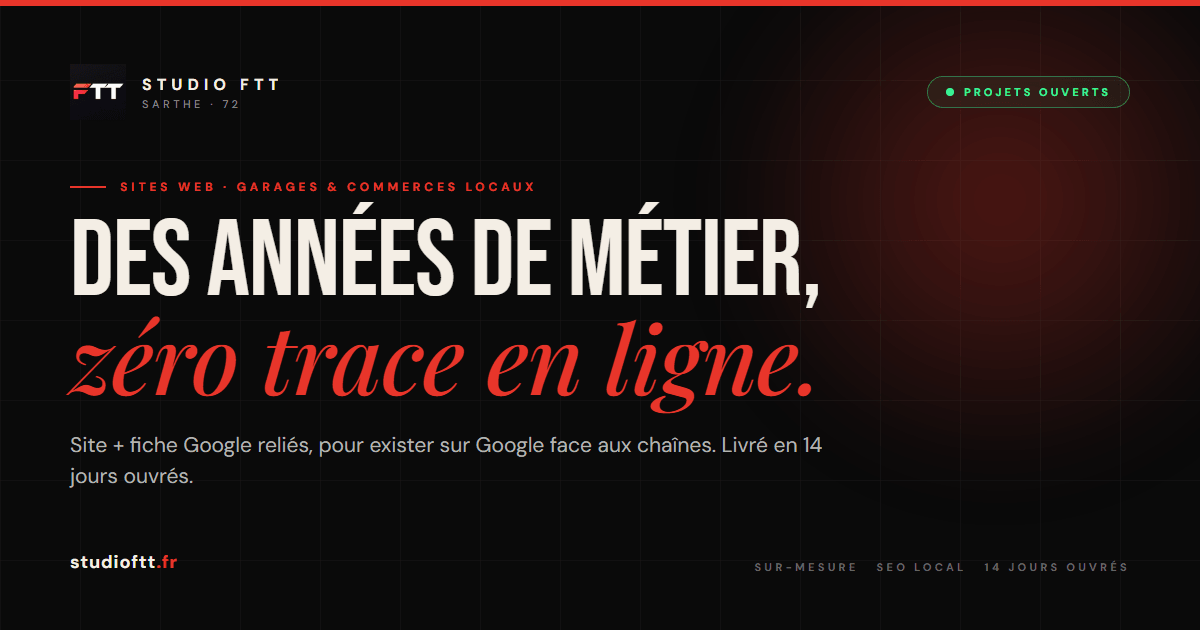
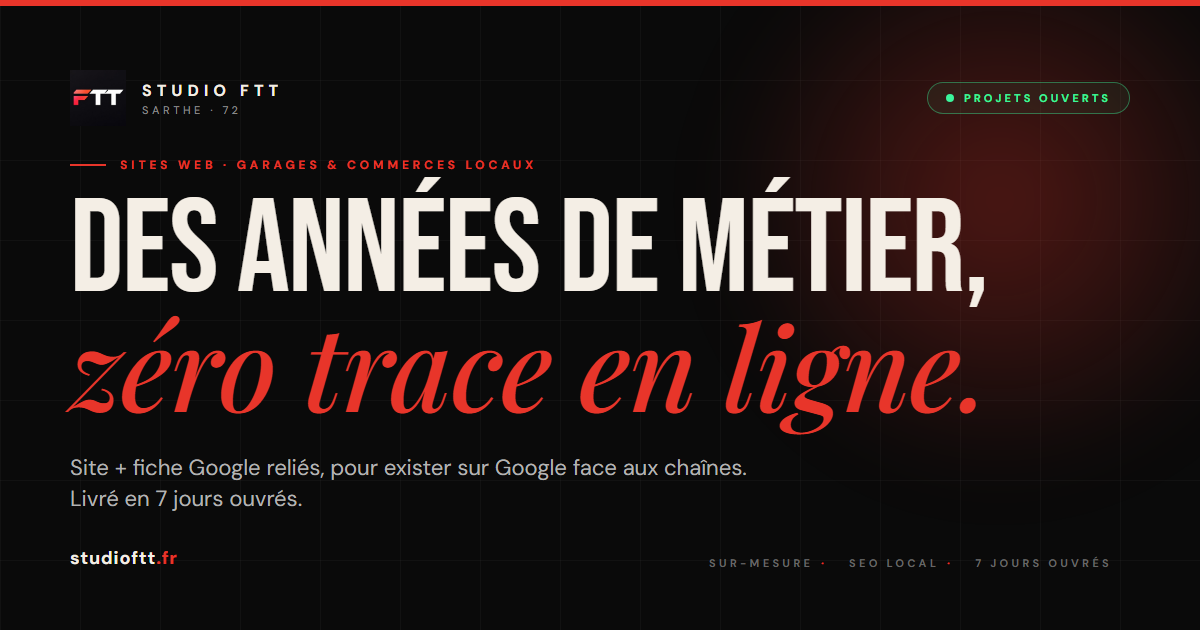
feat(offre): délai de livraison 7 jours ouvrés (au lieu de 14) + conditions CGV
Le délai démarre à réception de l'acompte 30 % et de tous les contenus,
est suspendu pendant les attentes de réponse du client, et exclut la
vérification Google Business. Images OG régénérées (et « Next.js » retiré).

diff --git a/app/tarifs/page.tsx b/app/tarifs/page.tsx
@@ -14,7 +14,7 @@ const COMPARATIF = {
   rows: [
     { label: "Prix", cells: ["17 à 30 €/mois, à vie", "800 à 1 500 €", "500 à 1 000 € one-shot", "1 800 à 2 500 €+"] },
     { label: "Qui fait le travail", cells: ["Vous, seul", "Le freelance", "Moi, en direct", "Une équipe + un chef de projet"] },
-    { label: "Délai", cells: ["Selon votre temps libre", "Variable", "14 jours ouvrés", "6 à 12 semaines"] },
+    { label: "Délai", cells: ["Selon votre temps libre", "Variable", "7 jours ouvrés", "6 à 12 semaines"] },
     { label: "Design", cells: ["Template à adapter", "Selon le profil", "Sur-mesure pour votre métier", "Sur-mesure"] },
     { label: "SEO", cells: ["À faire vous-même", "Souvent en option", "Inclus dès 500 €", "Inclus"] },
     { label: "Abonnement", cells: ["Obligatoire, sinon le site disparaît", "Selon le prestataire", "Aucun obligatoire", "Maintenance en supplément"] },
@@ -43,8 +43,8 @@ const TARIFS_FAQ = [
     a: "Un devis écrit, valable 30 jours. Vous versez un acompte de 30 % à la signature pour lancer les travaux, et le solde se règle avant la mise en ligne. Tout est posé par écrit avant de commencer.",
   },
   {
-    q: "Le délai de 14 jours ouvrés démarre quand ?",
-    a: "À la réception de votre acompte et de vos contenus : textes, photos, logo. C'est le temps qu'il me faut pour concevoir la maquette, la faire valider et mettre le site en ligne. S'il vous manque des éléments, je démarre avec ce que vous avez.",
+    q: "Le délai de 7 jours ouvrés démarre quand ?",
+    a: "Quand j'ai reçu votre acompte de 30 % et tous vos contenus : textes, photos, logo, infos. Les jours où j'attends votre validation ou une réponse de votre part ne comptent pas, et la vérification de la fiche Google (faite par Google) non plus. S'il vous manque des éléments, on en parle et on démarre avec ce que vous avez.",
   },
 ];
 
@@ -120,7 +120,7 @@ export default function Tarifs() {
               }}
             >
               <span style={{ color: "var(--ftt-red)", fontSize: 16 }}>⚡</span>
-              Livraison en 14 jours ouvrés
+              Livraison en 7 jours ouvrés
             </div>
           </div>
         </Reveal>

diff --git a/app/cgv/page.tsx b/app/cgv/page.tsx
@@ -155,16 +155,26 @@ export default function CGV() {
               Article 5 — Délais &amp; livraison
             </h2>
             <p>
-              Le délai standard de création d&apos;un site vitrine est de{" "}
-              <strong className="text-white">14 jours ouvrés</strong> à compter de
-              la réception de l&apos;acompte ET de l&apos;ensemble des contenus
-              fournis par le Client (textes, photos, logo, accès Google
-              Business le cas échéant).
+              Le délai standard de création d&apos;un site est de{" "}
+              <strong className="text-white">7 jours ouvrés</strong>. Il court
+              à compter de la réception de l&apos;acompte de 30&nbsp;% ET de
+              l&apos;ensemble des contenus nécessaires fournis par le Client
+              (textes, photos, logo, informations de l&apos;entreprise, accès
+              Google Business le cas échéant). Tant que ces deux conditions ne
+              sont pas réunies, le délai ne commence pas.
             </p>
             <p className="mt-3">
-              En cas de retard dans la fourniture des contenus par le Client, le
-              délai de livraison est suspendu d&apos;autant. Tout délai
-              spécifique négocié figure sur le devis.
+              Le délai est suspendu pendant les temps de réponse et de
+              validation du Client (validation de la maquette, réponses aux
+              questions du Prestataire, envoi de contenus complémentaires)&nbsp;:
+              chaque jour ouvré d&apos;attente d&apos;une réponse du Client
+              s&apos;ajoute au délai de livraison.
+            </p>
+            <p className="mt-3">
+              La vérification de la fiche Google Business Profile est réalisée
+              par Google (vidéo, courrier ou appel) et ne dépend pas du
+              Prestataire&nbsp;: elle n&apos;est pas comprise dans ce délai.
+              Tout délai spécifique négocié figure sur le devis.
             </p>
             <p className="mt-3">
               La livraison correspond à la mise en ligne du site sur son nom de

diff --git a/app/site-internet-kine/layout.tsx b/app/site-internet-kine/layout.tsx
@@ -5,7 +5,7 @@ import { breadcrumbSchema, serviceSchema } from "@/lib/schema";
 
 const TITLE = "Site internet kinésithérapeute : être choisi";
 const DESCRIPTION =
-  "Sur Doctolib, vous êtes une ligne parmi cinquante. Un site de kiné qui vous rend visible et respecte votre déontologie. 750 € tout compris, 14 jours ouvrés.";
+  "Sur Doctolib, vous êtes une ligne parmi cinquante. Un site de kiné qui vous rend visible et respecte votre déontologie. 750 € tout compris, 7 jours ouvrés.";
 
 const URL = `${siteConfig.url}/site-internet-kine`;
 
@@ -58,7 +58,7 @@ export default function SiteInternetKineLayout({
             name: "Création de site internet pour kinésithérapeute, ostéopathe et sophrologue",
             price: "750",
             description:
-              "Site sur-mesure pour cabinet de kinésithérapie : jusqu'à 3 pages, SEO local, fiche Google Business Profile configurée, conforme aux règles de communication de la profession. Livré en 14 jours ouvrés.",
+              "Site sur-mesure pour cabinet de kinésithérapie : jusqu'à 3 pages, SEO local, fiche Google Business Profile configurée, conforme aux règles de communication de la profession. Livré en 7 jours ouvrés.",
             features: [
               "Jusqu'à 3 pages",
               "Design adapté au secteur santé",

diff --git a/app/site-internet-artisan/layout.tsx b/app/site-internet-artisan/layout.tsx
@@ -5,7 +5,7 @@ import { breadcrumbSchema, serviceSchema } from "@/lib/schema";
 
 const TITLE = "Site internet artisan : être trouvé le premier";
 const DESCRIPTION =
-  "Quand un client tape « plombier + votre ville » à 22h, il appelle celui qu'il trouve. Site + fiche Google reliés, 750 € tout compris, livré en 14 jours ouvrés.";
+  "Quand un client tape « plombier + votre ville » à 22h, il appelle celui qu'il trouve. Site + fiche Google reliés, 750 € tout compris, livré en 7 jours ouvrés.";
 
 const URL = `${siteConfig.url}/site-internet-artisan`;
 
@@ -58,7 +58,7 @@ export default function SiteInternetArtisanLayout({
             name: "Création de site internet pour artisan du bâtiment",
             price: "750",
             description:
-              "Site sur-mesure pour artisan (plombier, électricien, chauffagiste, maçon) : jusqu'à 3 pages, SEO local sur votre ville et vos services, fiche Google Business Profile configurée. Livré en 14 jours ouvrés.",
+              "Site sur-mesure pour artisan (plombier, électricien, chauffagiste, maçon) : jusqu'à 3 pages, SEO local sur votre ville et vos services, fiche Google Business Profile configurée. Livré en 7 jours ouvrés.",
             features: [
               "Jusqu'à 3 pages",
               "Design adapté à votre métier",

diff --git a/app/site-internet-commerce/layout.tsx b/app/site-internet-commerce/layout.tsx
@@ -5,7 +5,7 @@ import { breadcrumbSchema, serviceSchema } from "@/lib/schema";
 
 const TITLE = "Site internet garage & commerce local";
 const DESCRIPTION =
-  "Les chaînes ont des sites clinquants, vous avez le métier. Site + fiche Google reliés pour garage ou commerce : 750 € tout compris, livré en 14 jours ouvrés.";
+  "Les chaînes ont des sites clinquants, vous avez le métier. Site + fiche Google reliés pour garage ou commerce : 750 € tout compris, livré en 7 jours ouvrés.";
 
 const URL = `${siteConfig.url}/site-internet-commerce`;
 
@@ -58,7 +58,7 @@ export default function SiteInternetCommerceLayout({
             name: "Création de site internet pour commerce et service de proximité",
             price: "750",
             description:
-              "Site sur-mesure pour commerce ou service local (garage, institut, auto-école, boutique) : jusqu'à 3 pages, SEO local, fiche Google Business Profile configurée et reliée au site. Livré en 14 jours ouvrés.",
+              "Site sur-mesure pour commerce ou service local (garage, institut, auto-école, boutique) : jusqu'à 3 pages, SEO local, fiche Google Business Profile configurée et reliée au site. Livré en 7 jours ouvrés.",
             features: [
               "Jusqu'à 3 pages",
               "Design adapté à votre activité",

diff --git a/app/site-internet-kine/page.tsx b/app/site-internet-kine/page.tsx
@@ -84,7 +84,7 @@ const KINE_FAQ = [
   },
   {
     q: "Je n'ai pas le temps de m'en occuper.",
-    a: "C'est prévu. Un appel de 15 minutes pour comprendre votre cabinet, vous m'envoyez vos contenus (photos, parcours, spécialités), et je m'occupe du reste : textes, design, mise en ligne, fiche Google. Livré en 14 jours ouvrés après réception de l'acompte et de vos contenus.",
+    a: "C'est prévu. Un appel de 15 minutes pour comprendre votre cabinet, vous m'envoyez vos contenus (photos, parcours, spécialités), et je m'occupe du reste : textes, design, mise en ligne, fiche Google. Livré en 7 jours ouvrés après réception de l'acompte et de vos contenus, hors temps de validation de votre côté.",
   },
 ];
 
@@ -542,7 +542,7 @@ export default function SiteInternetKine() {
                 "SEO local : votre ville + vos spécialités",
                 "Fiche Google Business Profile configurée",
                 "Lien de prise de rendez-vous intégré",
-                "Livré en 14 jours ouvrés",
+                "Livré en 7 jours ouvrés",
                 "1 modification gratuite incluse",
               ].map((item) => (
                 <div key={item} style={{ display: "flex", alignItems: "center", gap: 10, fontSize: 15, color: "var(--ftt-text-mid)" }}>

diff --git a/app/site-internet-consultant/layout.tsx b/app/site-internet-consultant/layout.tsx
@@ -5,7 +5,7 @@ import { breadcrumbSchema, serviceSchema } from "@/lib/schema";
 
 const TITLE = "Site internet consultant : au niveau de votre TJM";
 const DESCRIPTION =
-  "Crédible en réunion, invisible en ligne ? Un site de consultant au niveau de votre TJM, sur-mesure dès 1 000 €, livré en 14 jours ouvrés.";
+  "Crédible en réunion, invisible en ligne ? Un site de consultant au niveau de votre TJM, sur-mesure dès 1 000 €, livré en 7 jours ouvrés.";
 
 const URL = `${siteConfig.url}/site-internet-consultant`;
 
@@ -58,7 +58,7 @@ export default function SiteInternetConsultantLayout({
             name: "Création de site internet pour consultant, formateur et coach",
             price: "1000",
             description:
-              "Site sur-mesure pour consultant, formateur ou coach : positionnement clair, pages offre, parcours et références, prise de rendez-vous intégrée. À partir de 1 000 €, livré en 14 jours ouvrés.",
+              "Site sur-mesure pour consultant, formateur ou coach : positionnement clair, pages offre, parcours et références, prise de rendez-vous intégrée. À partir de 1 000 €, livré en 7 jours ouvrés.",
             features: [
               "Jusqu'à 5 pages",
               "Positionnement et pages offre",

diff --git a/app/site-internet-consultant/page.tsx b/app/site-internet-consultant/page.tsx
@@ -66,7 +66,7 @@ const CONSULTANT_FAQ = [
   },
   {
     q: "Combien de temps ça prend ?",
-    a: "14 jours ouvrés après réception de l'acompte et de vos contenus. On cale votre positionnement à l'appel découverte, vous m'envoyez votre matière, je m'occupe du reste, du design à la mise en ligne.",
+    a: "7 jours ouvrés après réception de l'acompte et de vos contenus, hors temps de validation de votre côté. On cale votre positionnement à l'appel découverte, vous m'envoyez votre matière, je m'occupe du reste, du design à la mise en ligne.",
   },
   {
     q: "Vous écrivez les textes ?",
@@ -414,7 +414,7 @@ export default function SiteInternetConsultant() {
                 "Positionnement travaillé ensemble à l'appel découverte",
                 "Votre lien de réservation intégré (Calendly ou autre)",
                 "SEO sur votre expertise et vos mots-clés",
-                "Livré en 14 jours ouvrés",
+                "Livré en 7 jours ouvrés",
                 "1 modification gratuite incluse",
               ].map((item) => (
                 <div key={item} style={{ display: "flex", alignItems: "center", gap: 10, fontSize: 15, color: "var(--ftt-text-mid)" }}>

diff --git a/app/site-internet-commerce/page.tsx b/app/site-internet-commerce/page.tsx
@@ -66,7 +66,7 @@ const COMMERCE_FAQ = [
   },
   {
     q: "Combien de temps ça prend ?",
-    a: "14 jours ouvrés après réception de l'acompte et de vos contenus. Vous me transmettez photos, prestations et infos pratiques, je m'occupe du reste, du design à la mise en ligne.",
+    a: "7 jours ouvrés après réception de l'acompte et de vos contenus, hors temps de validation de votre côté. Vous me transmettez photos, prestations et infos pratiques, je m'occupe du reste, du design à la mise en ligne.",
   },
   {
     q: "Et si je veux changer quelque chose après ?",
@@ -397,7 +397,7 @@ export default function SiteInternetCommerce() {
                 "SEO local : votre ville + vos prestations",
                 "Fiche Google Business Profile configurée et reliée",
                 "Horaires, accès et infos pratiques structurés",
-                "Livré en 14 jours ouvrés",
+                "Livré en 7 jours ouvrés",
                 "1 modification gratuite incluse",
               ].map((item) => (
                 <div key={item} style={{ display: "flex", alignItems: "center", gap: 10, fontSize: 15, color: "var(--ftt-text-mid)" }}>

diff --git a/app/site-internet-artisan/page.tsx b/app/site-internet-artisan/page.tsx
@@ -66,7 +66,7 @@ const ARTISAN_FAQ = [
   },
   {
     q: "Combien de temps ça prend ?",
-    a: "14 jours ouvrés après réception de l'acompte et de vos contenus. Votre seul travail : me transmettre vos photos, vos services et vos infos. Je m'occupe du reste, du design à la mise en ligne.",
+    a: "7 jours ouvrés après réception de l'acompte et de vos contenus, hors temps de validation de votre côté. Votre seul travail : me transmettre vos photos, vos services et vos infos. Je m'occupe du reste, du design à la mise en ligne.",
   },
   {
     q: "Il faut payer tous les mois ?",
@@ -453,7 +453,7 @@ export default function SiteInternetArtisan() {
                 "SEO local : votre ville + vos services",
                 "Fiche Google Business Profile configurée",
                 "Zone d'intervention détaillée",
-                "Livré en 14 jours ouvrés",
+                "Livré en 7 jours ouvrés",
                 "1 modification gratuite incluse",
               ].map((item) => (
                 <div key={item} style={{ display: "flex", alignItems: "center", gap: 10, fontSize: 15, color: "var(--ftt-text-mid)" }}>

diff --git a/app/a-propos/page.tsx b/app/a-propos/page.tsx
@@ -135,7 +135,7 @@ export default function APropos() {
             </p>
             <p>
               Je livre en{" "}
-              <strong className="text-white">14 jours ouvrés</strong>, pas en
+              <strong className="text-white">7 jours ouvrés</strong>, pas en
               3&nbsp;mois. Devis gratuit et écrit avant de toucher à quoi que
               ce soit. Si je peux pas tenir un délai, je vous préviens avant.
               Pas après.
@@ -195,7 +195,7 @@ export default function APropos() {
                 d: "Écrit, détaillé, sans surprise. Vous savez ce que vous payez avant qu'on démarre.",
               },
               {
-                t: "Site livré en 14 jours ouvrés",
+                t: "Site livré en 7 jours ouvrés",
                 d: "À compter du moment où j'ai vos contenus en main et l'acompte versé.",
               },
               {

diff --git a/public/og-image-source.html b/public/og-image-source.html
@@ -266,7 +266,7 @@
             <em>convertissent.</em>
           </h1>
           <p class="tagline">
-            Sites sur-mesure pour artisans, indépendants et PME — livrés en 14 jours ouvrés, à partir de 500 €. Sarthe et France entière.
+            Sites sur-mesure pour artisans, indépendants et PME — livrés en 7 jours ouvrés, à partir de 500 €. Sarthe et France entière.
           </p>
         </div>
 
@@ -275,9 +275,9 @@
             studioftt<span class="accent">.fr</span>
           </div>
           <div class="stack">
-            <span>Next.js</span>
-            <span>Cloudflare</span>
+            <span>Sur-mesure</span>
             <span>SEO local</span>
+            <span>7 jours ouvrés</span>
           </div>
         </div>
       </div>
